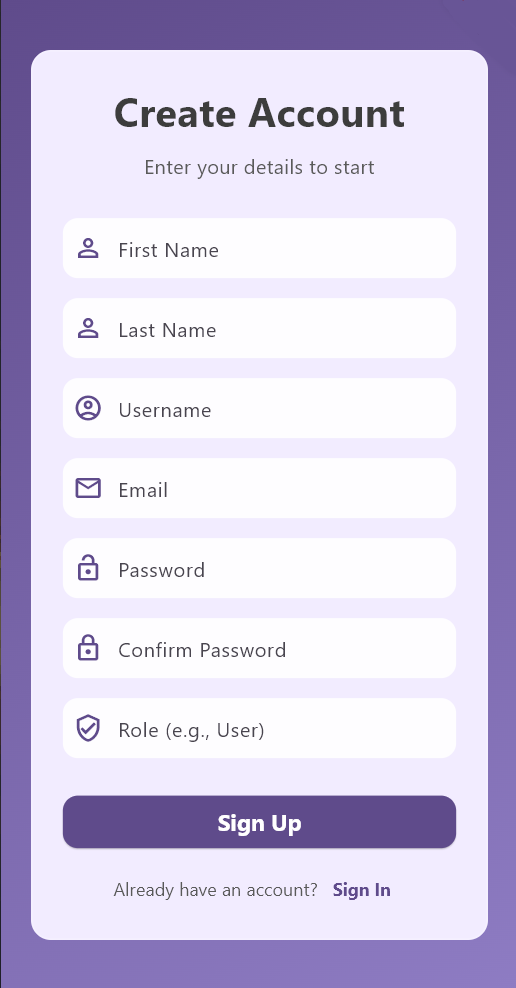
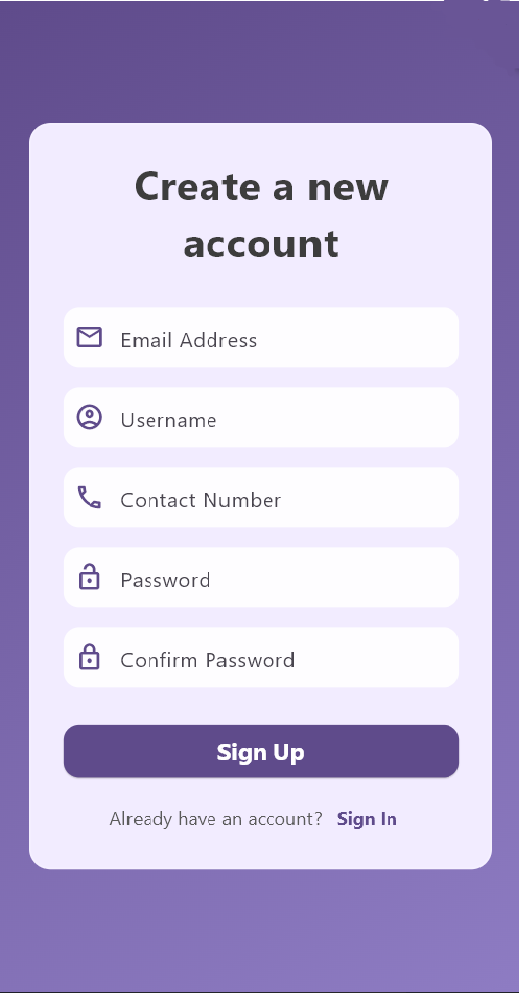
docs: Minor updates and formatting on README

diff --git a/README.md b/README.md
@@ -23,12 +23,9 @@ Bu projenin orijinal görev tanımı ve staj kaynakları aşağıdaki dosyalarda
 
 ## Kullanılan Teknolojiler
 
-- .NET Core (Web API)
-- React (Frontend)
-- Flutter (Mobil)
-- Docker
-- JWT Authentication
-
+- **Backend:** ASP.NET Core Web API, Entity Framework Core, JWT, SQLite
+- **Frontend (Web):** React, Vite, TailwindCSS, React Router
+- **Mobil (Flutter):** Flutter SDK, Dart, Provider, http
 ---
 
 ## Özellikler (Features)
@@ -50,7 +47,7 @@ Bu projenin orijinal görev tanımı ve staj kaynakları aşağıdaki dosyalarda
 
 #### Web Arayüzü (React)
 
- <img src="./frontend/screenshots/login.png" width="470">  <img src="./frontend/screenshots/register.png" width="470">  <img src="./frontend/screenshots/password.jpeg" width="418"> 
+ <img src="./frontend/screenshots/login.png" width="470">  <img src="./frontend/screenshots/register.png" width="470">  <img src="./frontend/screenshots/password.jpeg" width="430"> 
 
 
 ---
@@ -63,8 +60,8 @@ Projeyi yerel ortamınızda çalıştırmak için aşağıdaki adımları takip 
 
 Aşağıdaki araçların bilgisayarınızda kurulu olduğundan emin olun:
 
-- **Docker Desktop**: Backend servisini çalıştırmak için  
-  [Docker Desktop İndirme Sayfası](https://www.docker.com/products/docker-desktop)
+- **.NET SDK:** Backend servisini çalıştırmak için gereklidir (Versiyon 8.0 veya üstü).
+  [.NET SDK İndirme Sayfası](https://dotnet.microsoft.com/download)
 
 - **Flutter SDK**: Mobil uygulamayı geliştirmek ve çalıştırmak için  
   [Flutter SDK Kurulum Rehberi](https://docs.flutter.dev/get-started/install)
@@ -76,20 +73,21 @@ Aşağıdaki araçların bilgisayarınızda kurulu olduğundan emin olun:
 
 ### Çalıştırma Adımları
 
+Uygulamaların birbiriyle konuşabilmesi için **önce Backend servisini başlatmanız** çok önemlidir.
+
 #### 1. Backend'i Başlatın (.NET)
 
 ```bash
-# Projenin kök dizininden backend klasörüne gidin
-cd backend
+# Projenin kök dizininden backend API klasörüne gidin
+cd login_backend/LoginProject.API
 
-# Docker image'ını oluşturun
-docker build -t login-backend .
+# Gerekli paketleri yükleyin
+dotnet restore
 
-# Docker konteynerini başlatın
-docker run -p 5000:8080 login-backend
-
-# Bu terminali açık bırakın. Backend artık http://localhost:5000 adresinde çalışıyor.
+# Uygulamayı çalıştırın
+dotnet run
 ```
+
 #### 2. Mobil Uygulamayı Başlatın (Flutter)
 
 ```bash
